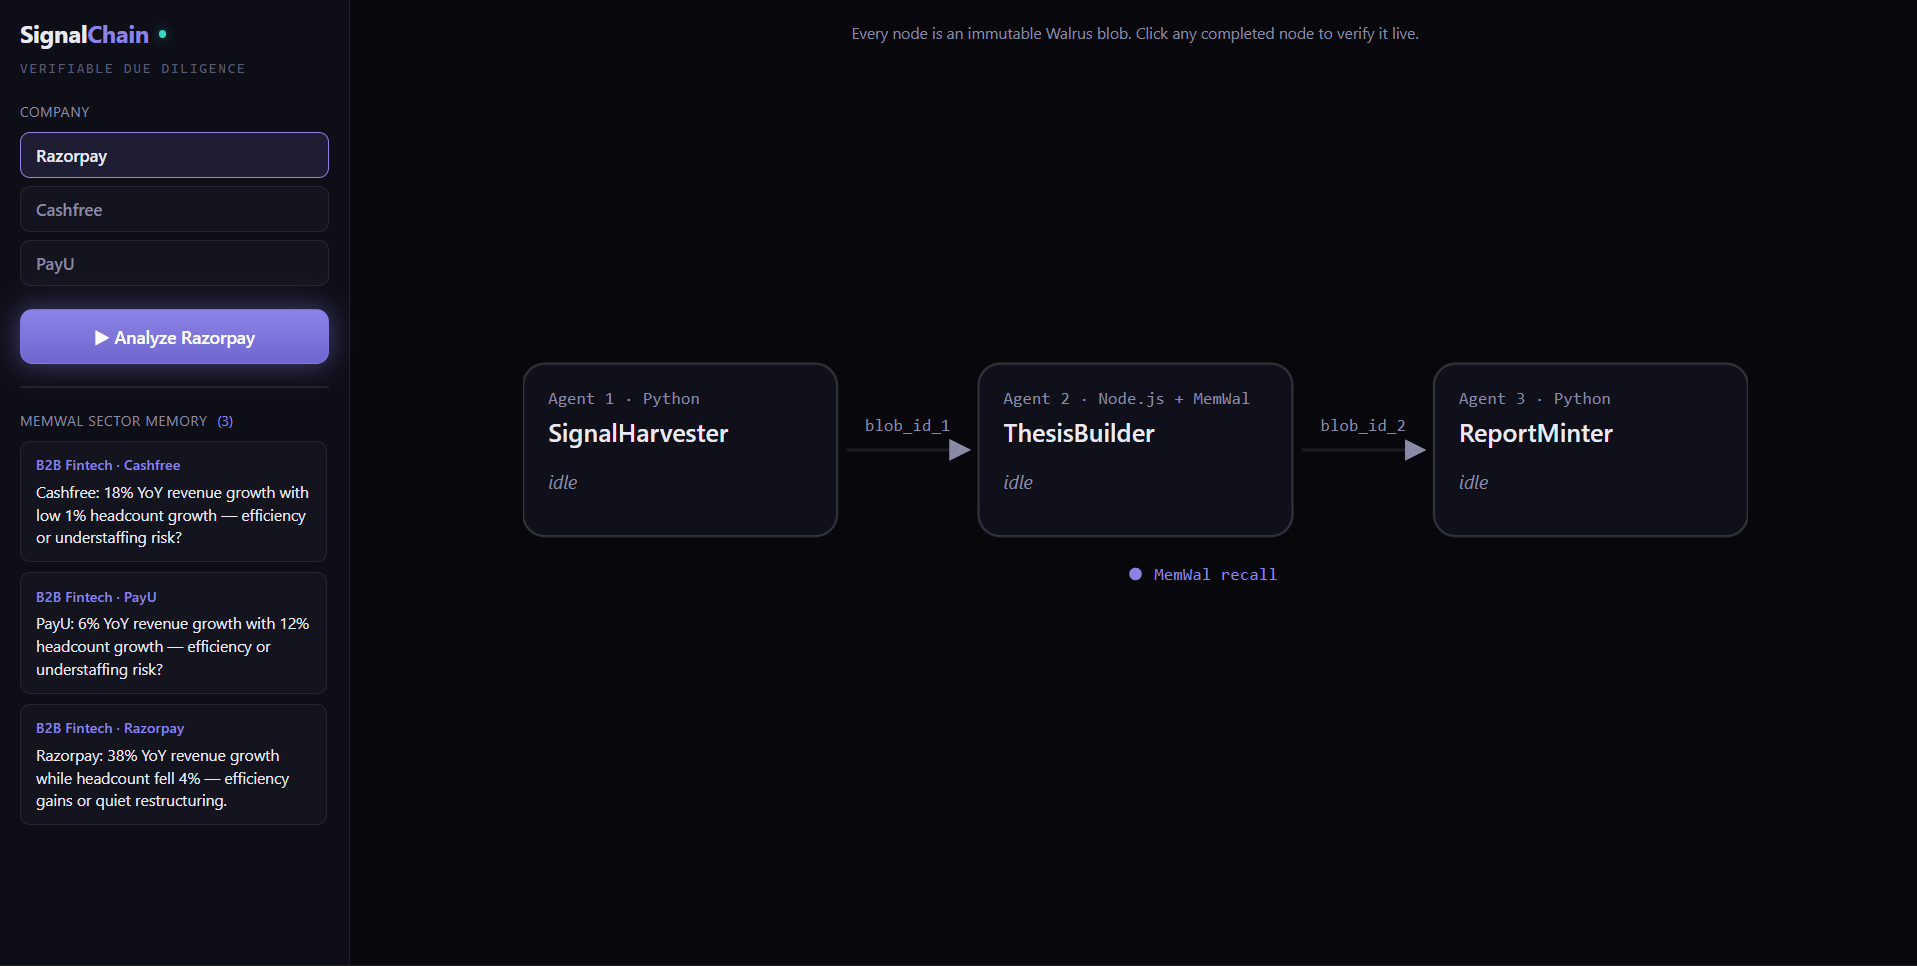
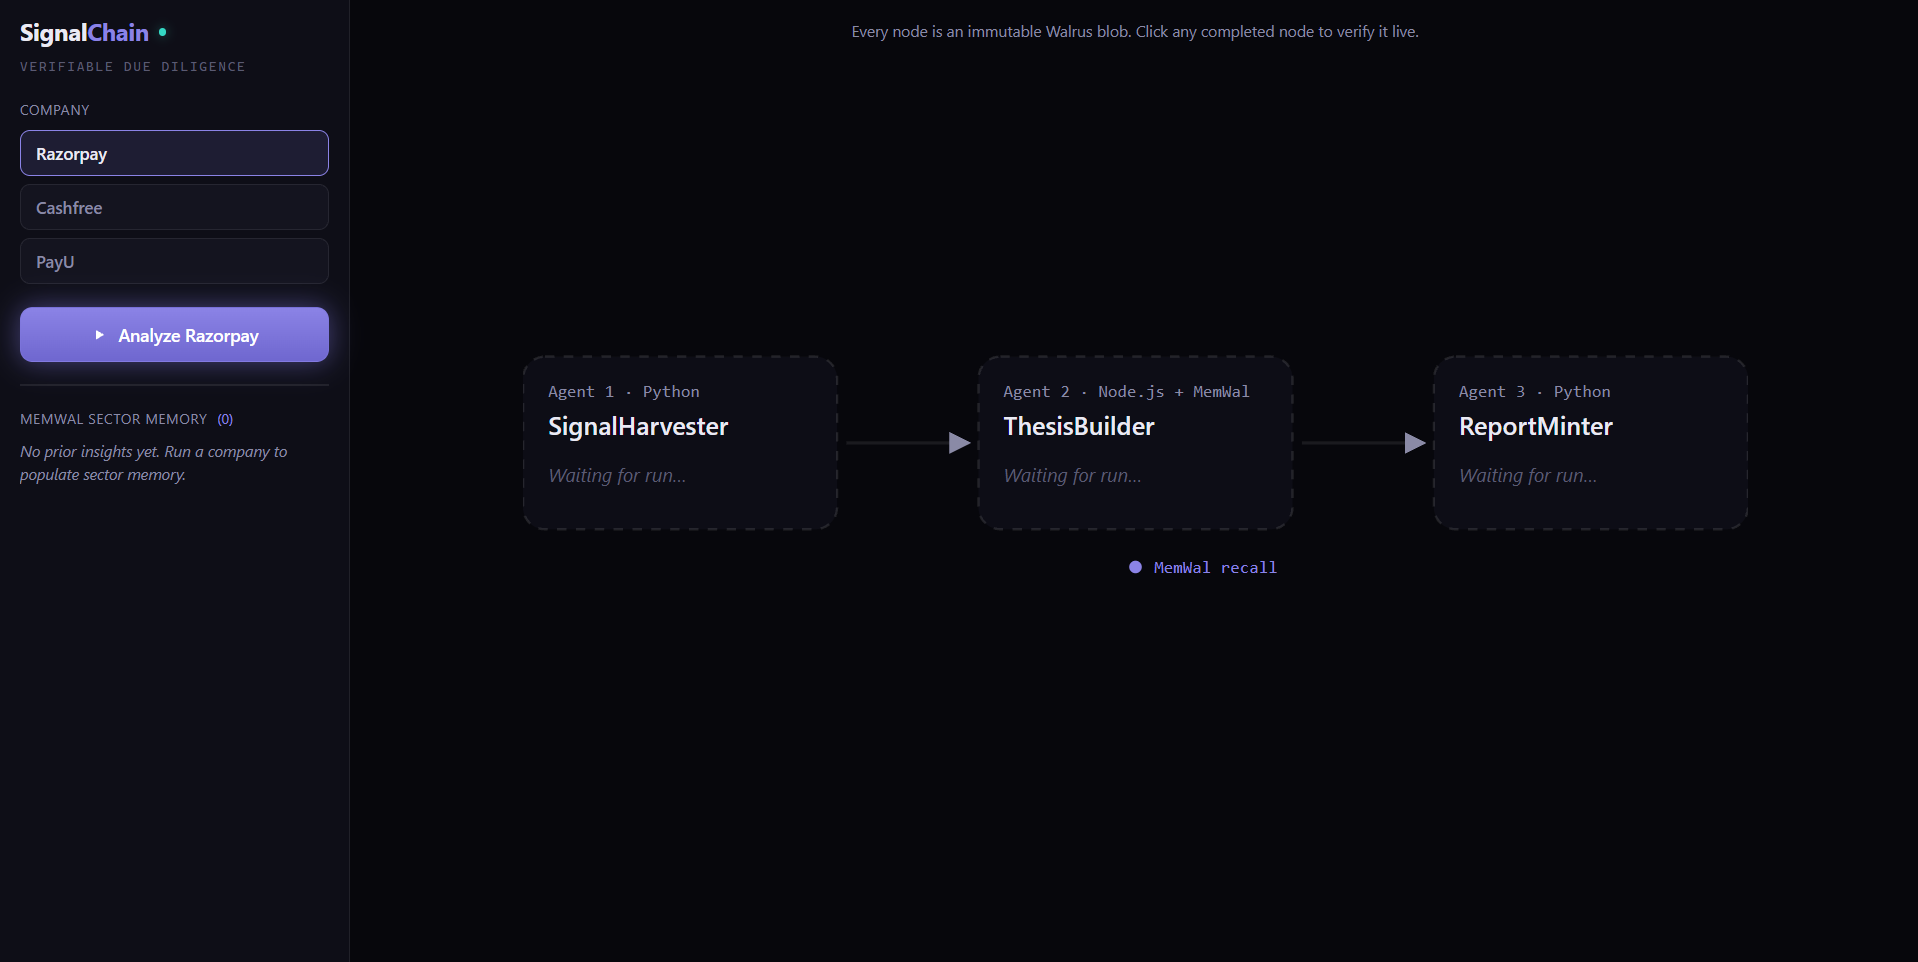
docs: make submission ready
- Add README.md
- Add .env.example template
- Add MIT LICENSE

diff --git a/README.md b/README.md
@@ -1,0 +1,212 @@
+<div align="center">
+
+# SignalChain
+
+![SignalChain](./docs/dashboard.png)
+
+**Multi-agent financial due diligence where every claim is a cryptographic receipt — not a language model's best guess.**
+
+
+[![Walrus](https://img.shields.io/badge/storage-Walrus-7F77DD)](https://www.walrus.xyz/)
+[![MemWal](https://img.shields.io/badge/memory-MemWal-2dd4bf)](https://docs.wal.app/walrus-memory)
+[![Python](https://img.shields.io/badge/agents-Python%20%2B%20FastAPI-3776AB)](https://fastapi.tiangolo.com/)
+[![TypeScript](https://img.shields.io/badge/agent2-Node.js%20%2B%20TS-3178C6)](https://www.typescriptlang.org/)
+[![Next.js](https://img.shields.io/badge/dashboard-Next.js%2014-000000)](https://nextjs.org/)
+[![Groq](https://img.shields.io/badge/LLM-Groq%20Llama%203.3-F55036)](https://groq.com/)
+
+*Built for the SUI Overflow Hackathon — Walrus Track.*
+
+**[🔗 Live dashboard](https://signalchain-six.vercel.app)** · **[🎬 Demo video](https://drive.google.com/file/d/1e5zgcuPEK45Ry_INzVqR_QnCuJoXVrlS/view)**
+<br><sub>free-tier backends sleep when idle — the first run may take ~30–50s to wake</sub>
+
+[Demo](#-demo) · [How it works](#-how-it-works) · [Setup](#-setup) · [Verify it yourself](#-verify-it-yourself) · [Walrus Track alignment](#-walrus-track-alignment)
+
+</div>
+
+---
+
+## The problem
+
+AI research tools hallucinate citations. They generate confident prose with footnotes the model *invented* — and there is no way to prove a claim actually came from real data. For a financial analyst, "trust the model" is not a due-diligence process.
+
+## The idea
+
+SignalChain runs a **three-agent pipeline** that turns raw company signals into an investment memo. Every reasoning step — raw signals → analysis thesis → final report — is written to [Walrus](https://www.walrus.xyz/) as an **immutable, content-addressed blob**, and each artifact **embeds the blob ID of the artifact it was derived from**.
+
+The result is a verifiable chain of custody. Anyone can click a claim in the final report and trace it back, blob by blob, to the source data on a decentralized network. **No central database. No hallucinated citations.** If a blob ID resolves, the artifact is real and unaltered; tamper with it and the content address changes.
+
+```
+   ┌──────────────────┐   blob_id_1   ┌──────────────────┐   blob_id_2   ┌──────────────────┐
+   │  SignalHarvester │ ─────────────▶│   ThesisBuilder  │ ─────────────▶│   ReportMinter   │
+   │     Agent 1      │               │     Agent 2      │               │     Agent 3      │
+   │     (Python)     │               │ (Node.js+MemWal) │               │     (Python)     │
+   └──────────────────┘               └────────┬─────────┘               └──────────────────┘
+        │ writes                                │ recall / remember               │ writes
+        ▼                                       ▼                                  ▼
+   ┌─────────────────────────────────┐   ┌──────────────┐            ┌────────────────────────┐
+   │     Walrus (blob_id_1)          │   │   MemWal     │            │   Walrus (blob_id_3)   │
+   │     raw signals                 │   │ sector memory│            │   report + chain{1,2}  │
+   └─────────────────────────────────┘   └──────────────┘            └────────────────────────┘
+                          ▲                                                        │
+                          └──────────  Next.js dashboard (SSE + live blob inspector) ──────────┘
+```
+
+## What it does
+
+Pick a company (Razorpay, Cashfree, or PayU) and run the pipeline. Three agents execute in sequence, each emitting a Walrus blob ID over a live **Server-Sent Events** stream that lights up the dashboard in real time:
+
+1. **SignalHarvester** (Agent 1, Python) loads the company's raw signals — financials, engineering activity, headcount, news — and writes them to Walrus → `blob_id_1`.
+2. **ThesisBuilder** (Agent 2, Node.js) reads `blob_id_1`, **recalls prior insights about the sector from MemWal**, asks an LLM for a bull/bear thesis, stores its key insight back into MemWal, and writes the thesis to Walrus → `blob_id_2` (which embeds `source_blob_id = blob_id_1`).
+3. **ReportMinter** (Agent 3, Python) reads both upstream blobs, generates a Markdown investment memo with a Provenance section, and writes the final artifact to Walrus → `blob_id_3` (which embeds `chain = { blob_id_1, blob_id_2 }`).
+
+### Dashboard features
+
+- **Live pipeline graph** — three nodes light up as real blobs land (backend-driven `running → complete` states, spinner + "Writing to Walrus…").
+- **Blob inspector** — click any node to fetch its blob *live* from the Walrus aggregator and view the raw JSON.
+- **Verify chain** — on the thesis node, one click resolves `source_blob_id` and opens the exact raw data the thesis was built from. *This is the proof.*
+- **Provenance trace** — the inspector's Provenance tab renders the full `report → thesis → signals` ancestry; click any ancestor to re-root and load it live.
+- **Confidence gauge** — the thesis node shows the model's `confidence_score` as a radial gauge once the blob resolves.
+- **MemWal sector memory panel** — shows accumulated cross-run insights (deduped); flashes when a new one is stored.
+- **Run history** — a timeline strip records every completed run; click any blob block to reopen it in the inspector.
+- **View Full Report** — renders the final Markdown memo, with its provenance, beautifully on screen for the analyst.
+
+## 🎬 Demo
+
+> **▶ Watch the 3-minute demo:** [Demo Video](https://drive.google.com/file/d/1e5zgcuPEK45Ry_INzVqR_QnCuJoXVrlS/view)
+
+Walk-through (matches the demo video):
+
+1. Select **Razorpay**, click Run. Watch the three nodes light up sequentially — each shows a spinner + "Writing to Walrus…", then its blob ID.
+2. Click **node 1** → the inspector shows the raw signals JSON and the live Walrus aggregator URL. *"This data lives on a decentralized network — not on our server."*
+3. Click **node 2** → the thesis JSON with `source_blob_id` highlighted. Click **Verify chain** → `blob_id_1` loads into the inspector. *"Cryptographic provenance — every claim traces back to source."*
+4. Click **node 3**, then **View Full Report** → the rendered due-diligence memo with its Provenance section.
+5. Select **Cashfree**, click Run. The MemWal panel flashes as the **Razorpay insight is recalled**, and the Cashfree thesis references Razorpay. *"The system gets smarter across runs — memory is portable and verifiable."*
+
+> **Pre-warm before recording:** run Razorpay once first. Identical content re-written to Walrus returns `alreadyCertified` and resolves faster.
+
+## 🔍 How it works
+
+**The blob chain.** Every artifact is JSON written to Walrus via a single `PUT /v1/blobs?epochs=5`, which returns a content-addressed `blobId`. Because each downstream artifact stores the blob ID of its input (`source_blob_id` on the thesis, `chain.{blob_id_1, blob_id_2}` on the report), the three blobs form a directed, tamper-evident chain. Verification is just reading blobs back from the public aggregator (`GET /v1/blobs/{id}`) and checking that the IDs line up — **no trust in our server is required, because our server never stores the data.**
+
+**Why this kills hallucinated citations.** A normal LLM research tool emits prose with citations the model invented. Here, the thesis *cannot* reference a source it didn't actually read, because `source_blob_id` is the literal address of the bytes Agent 2 fetched, and the report carries both upstream IDs forward. The provenance is **structural, not promised**.
+
+**Cross-run memory.** Agent 2 is th     e only service that touches MemWal. After writing each thesis it stores a one-sentence insight into a shared sector namespace (`MEMWAL_NAMESPACE`); on the next run, `recall()` surfaces those prior insights as context — so analyzing Cashfree after Razorpay produces a thesis that explicitly references what was learned about Razorpay. Memory is portable (it lives on Walrus, not in our process) and accumulates across sessions.
+
+## 🧱 Tech stack
+
+| Layer | Technology | Role |
+| --- | --- | --- |
+| Agents 1 & 3 | Python 3 + FastAPI + httpx | Walrus read/write, orchestration, SSE |
+| Agent 2 | Node.js + Express + TypeScript (tsx) | Thesis building — the only MemWal client |
+| Persistent storage | **Walrus** testnet (HTTP API) | Immutable blob chain for all artifacts |
+| Long-term memory | **MemWal** (`@mysten-incubation/memwal`) | Cross-session sector insights |
+| LLM | Groq (`llama-3.3-70b-versatile`) | Thesis (temp 0.3) + report (temp 0.2) |
+| Dashboard | Next.js 14 (Pages Router) + React 18 | SSE pipeline graph, live blob inspector |
+| Transport | Server-Sent Events + asyncio queues | Real-time stage updates — no broker, no Redis |
+
+## 📁 Project structure
+
+```
+SignalChain/
+├── python-agents/              # FastAPI orchestrator + Agents 1 & 3
+│   ├── main.py                 #   pipeline orchestration, SSE, /internal/write-blob
+│   ├── walrus.py               #   read_blob() / write_blob()
+│   ├── groq_llm.py             #   async Groq client (report assembly)
+│   ├── spike.py                #   Walrus round-trip check
+│   ├── agents/
+│   │   ├── signal_harvester.py #   Agent 1
+│   │   └── report_minter.py    #   Agent 3
+│   └── mock_data/              #   razorpay / cashfree / payu signals (JSON)
+├── agent2/                     # Agent 2 — ThesisBuilder (Node.js + MemWal)
+│   ├── index.ts                #   Express: POST /analyze, GET /memories
+│   ├── memwal.ts               #   storeInsight() / recallSectorContext()
+│   ├── groq.ts                 #   runThesisLLM()
+│   ├── walrus.ts               #   readBlob()
+│   └── spike.ts                #   MemWal store+recall check
+├── dashboard/                  # Next.js verification dashboard
+│   ├── pages/index.tsx         #   three-panel layout
+│   ├── pages/_document.tsx     #   favicon + meta tags
+│   ├── pages/api/resolve/      #   Walrus aggregator proxy
+│   ├── public/favicon.svg      #   logo / favicon
+│   └── components/             #   PipelineGraph / BlobInspector / MemoryPanel / ReportModal / Timeline / icons
+└── .env.example
+```
+
+## ⚙️ Setup
+
+**Prerequisites:** Python 3.11+, Node.js 18+, a [Groq API key](https://console.groq.com/), and a MemWal account.
+
+```bash
+# 1. Copy the env template
+cp .env.example .env
+
+# 2. Create a MemWal account + delegate key (testnet) at https://staging.memory.walrus.xyz
+#    Fill these into .env:
+#      MEMWAL_PRIVATE_KEY, MEMWAL_ACCOUNT_ID   (from MemWal)
+#      GROQ_API_KEY                            (from Groq)
+#    Walrus testnet needs no auth — the defaults already work.
+
+# 3. Install dependencies
+cd python-agents && pip install -r requirements.txt && cd ..
+cd agent2        && npm install && cd ..
+cd dashboard     && npm install && cd ..
+```
+
+## ▶ Running locally
+
+```bash
+cd python-agents && python -m uvicorn main:app --port 8000   # FastAPI orchestrator  :8000
+cd agent2        && npm run start                            # Agent 2 (Express)     :3001
+cd dashboard     && npm run dev                              # Dashboard (Next.js)   :3000
+```
+
+Then open **http://localhost:3000**.
+
+## ✅ Verify it yourself
+
+**Day-1 spikes (prove the infrastructure):**
+
+```bash
+python python-agents/spike.py     # Walrus read/write round-trip (no creds needed)
+cd agent2 && npm run spike        # MemWal store + recall (needs your MemWal creds)
+```
+
+**Full pipeline via CLI (no dashboard):**
+
+```bash
+curl -X POST "http://localhost:8000/run-pipeline?company=Razorpay&sector=B2B+Fintech"
+curl -N  "http://localhost:8000/pipeline/stream/{run_id}"     # SSE: running/complete events with blob IDs
+```
+
+**Confirm the chain on the public network — straight from Walrus, bypassing our app entirely:**
+
+```bash
+curl "https://aggregator.walrus-testnet.walrus.space/v1/blobs/{blob_id_2}"   # thesis → has source_blob_id == blob_id_1
+curl "https://aggregator.walrus-testnet.walrus.space/v1/blobs/{blob_id_3}"   # report → has chain.{blob_id_1, blob_id_2}
+```
+
+## 🏆 Walrus Track alignment
+
+- **Long-term memory** — Agent 2 uses **MemWal** to store a one-sentence insight per analysis into a shared sector namespace and `recall()`s them on later runs. Sector knowledge accumulates across sessions and is referenced explicitly in subsequent theses (e.g. the Cashfree thesis cites Razorpay).
+- **Persistent data** — every artifact (raw signals, thesis, report) is a **Walrus** blob. There is no application database; the blob store *is* the system of record, and MemWal's memories are themselves backed by Walrus.
+- **Artifact-driven workflow** — the pipeline is a chain of artifacts: `raw signals (blob_id_1) → thesis (blob_id_2) → report (blob_id_3)`. Each stage's output is a durable, content-addressed Walrus blob that the next stage reads as input.
+- **Verifiable AI** — the blob-ID chain proves reasoning provenance. The thesis embeds `source_blob_id`; the report embeds `chain.{blob_id_1, blob_id_2}`. Any reader can resolve those IDs against the public aggregator and confirm exactly which data each conclusion was built from — making citation hallucination **structurally impossible**.
+
+## 🛠 Troubleshooting
+
+- **Walrus testnet is slow** (5–30s per write). The dashboard shows live loading states; the orchestrator emits an error event if a Walrus call exceeds 45s. Pre-warming with one Razorpay run makes the demo snappy (`alreadyCertified`).
+- **MemWal `recall()` returns empty on the second run** — make sure `MEMWAL_NAMESPACE` is identical across runs and that the first run's `storeInsight` completed.
+- **Node fails to reach the MemWal relayer** (intermittent `ENOTFOUND` / connect timeout) — Agent 2 forces IPv4-first DNS and retries; `storeInsight` is non-fatal so a relayer blip never sinks the pipeline.
+- **`pip` / user-site issues** — install into a clean virtualenv if your global pip is broken.
+
+## 📄 License
+
+[MIT](./LICENSE)
+
+---
+
+<div align="center">
+
+*No database. No middleman. Click any node to verify.*
+
+</div>